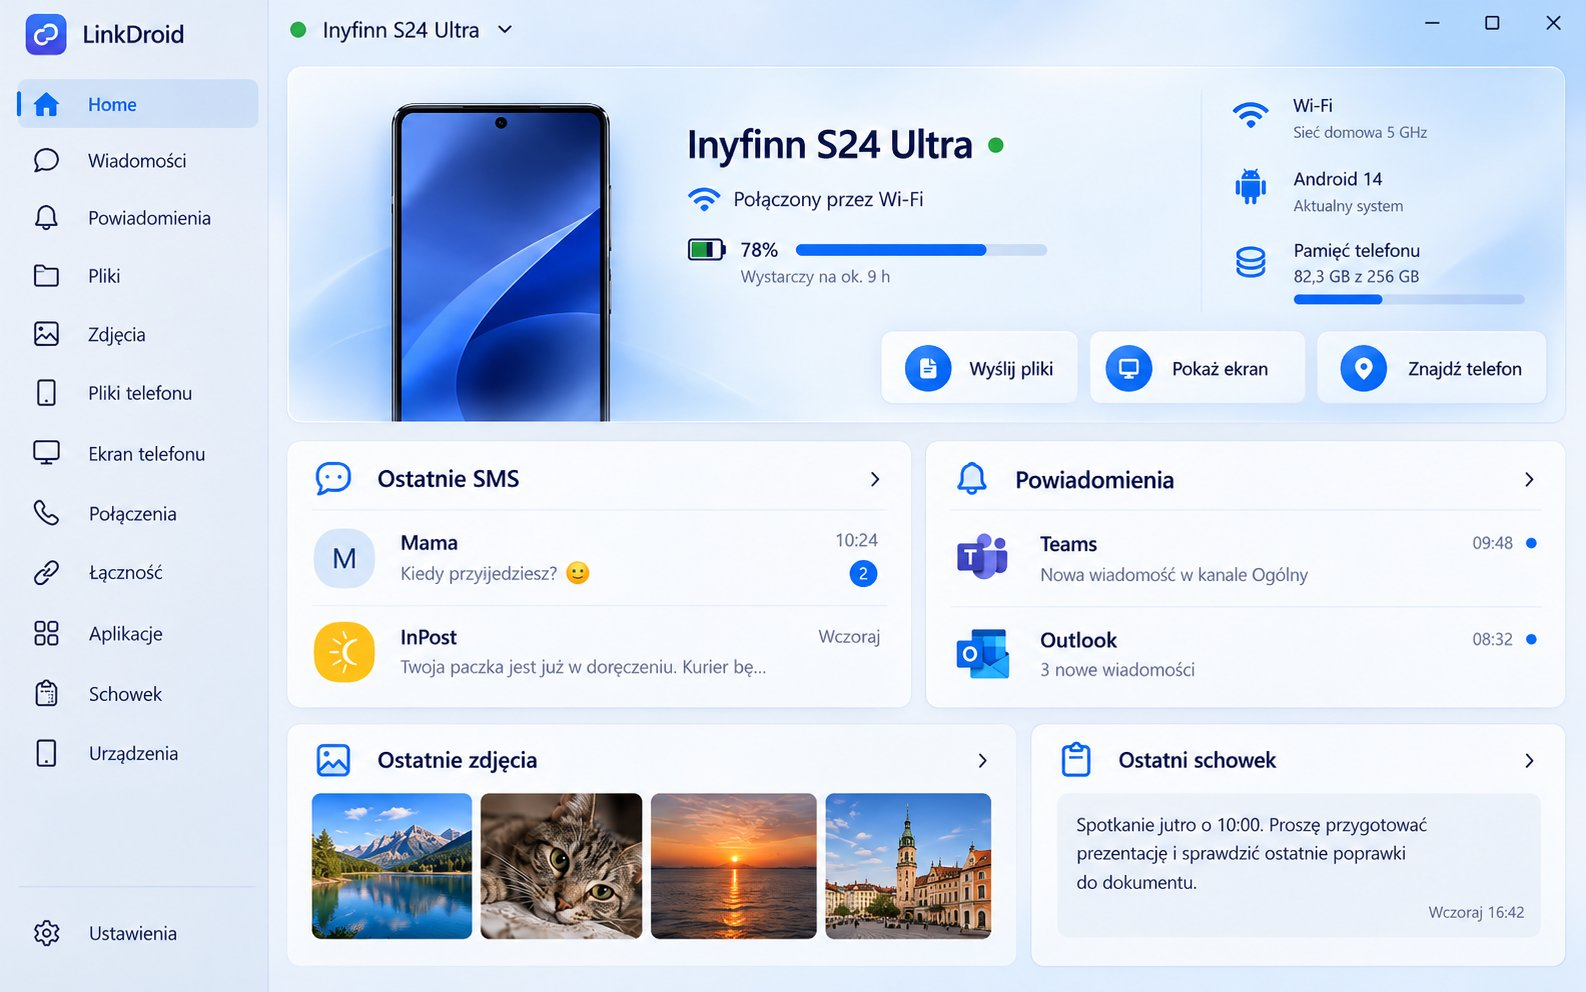
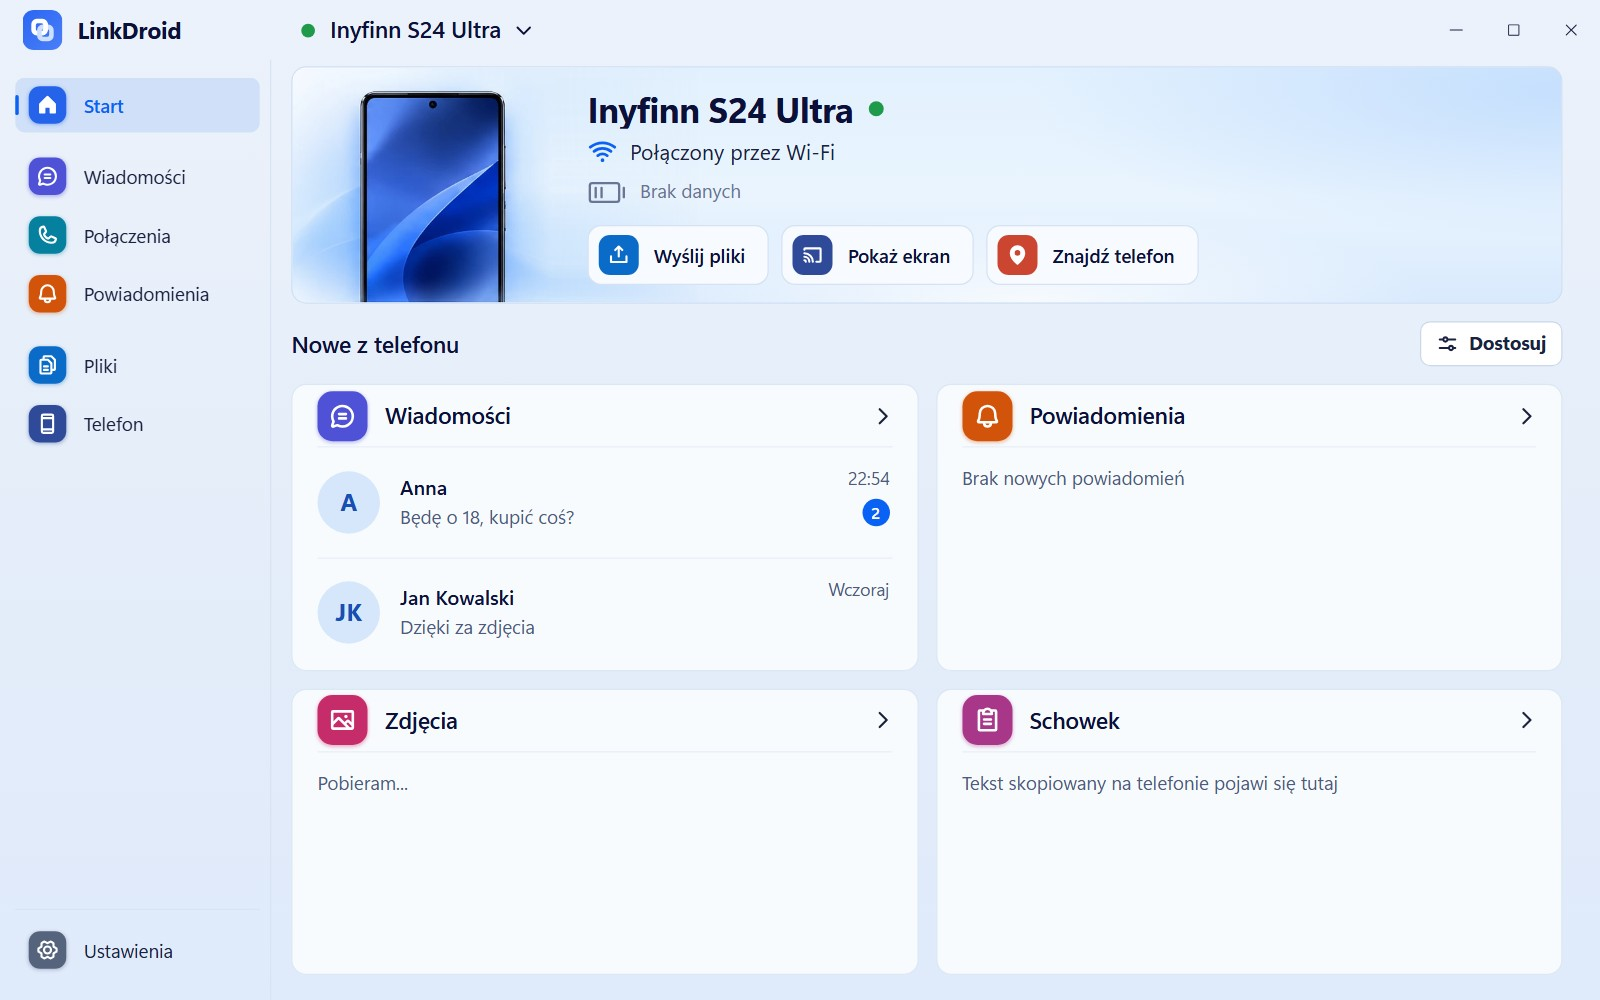
README: 1.0.23 (ostry ekran komputera po przybliżeniu, czystszy wygląd, Ustawienia jako lista kategorii, nowe zrzuty)

diff --git a/README.md b/README.md
@@ -44,7 +44,7 @@ Po instalacji komputer pokazuje kod QR, telefon go skanuje i gotowe. Obie aplika
 
 **Komputer na telefonie**
 - **Pliki komputera:** wszystkie dyski (C:, D: i inne), z pobieraniem i zapisem.
-- **Ekran komputera** na telefonie i proste sterowanie komputerem.
+- **Ekran komputera** na telefonie i proste sterowanie komputerem. Po przybliżeniu palcami obraz jest ostry: telefon mówi komputerowi, jaki wycinek ekranu widać, a komputer wysyła go w pełnej rozdzielczości (na monitorze 4K do 2x tak ostro jak na komputerze), zamiast powiększać zmniejszony obraz.
 - **Zdjęcia w telefonie:** podgląd w aplikacji z przewijaniem, ulubione, edycja, udostępnianie; siatka zmieniana dwoma palcami.
 - **Zgłoś problem:** formularz w Ustawieniach na komputerze i telefonie.
 - **Karta komputera na telefonie:** na ekranie Start przesuwasz z karty telefonu na kartę komputera: rodzaj komputera, zalogowany użytkownik, bateria i ładowanie, sieć, godzina na komputerze, a pod nią przyciski Zablokuj, Uśpij, Wyłącz ekran, Steruj, Wyślij pliki, Wyłącz komputer.
@@ -64,17 +64,14 @@ Po instalacji komputer pokazuje kod QR, telefon go skanuje i gotowe. Obie aplika
 - Mały program LinkDroid na stale włączonym urządzeniu w domu (np. Synology NAS w Dockerze) daje stały punkt połączenia i wybudza komputer, gdy jesteś poza domem. Paruje się przez komputer, bez skanowania kodów.
 
 **Wygląd po Twojemu**
-- Dwa układy ekranu głównego, motyw jasny i ciemny, cztery schematy kolorów.
+- **Czysty, spójny wygląd na komputerze i telefonie:** ekran Start z kartą telefonu i kafelkami „Nowe z telefonu”, pasek boczny z ikonami o równej wielkości, motyw jasny i ciemny, cztery schematy kolorów.
+- **Ustawienia jak na telefonie:** lista kategorii (Telefon i połączenie, Funkcje i dane, Aplikacja), każda z krótkim opisem. Wchodzisz w jedną i wracasz strzałką, bez przewijania długiej listy.
 - Na telefonie: motyw jasny lub ciemny jednym dotknięciem na górze ekranu Start, powiadomienia aktywne i historia przesuwane palcem.
 - Tryb „Dostosuj”: sam wybierasz kafelki (SMS, powiadomienia jednej aplikacji, zdjęcia, filmy, pliki, połączenia, schowek). Ekran wypełnia się treścią na każdym monitorze, od laptopa po 4K.
 
 <p align="center">
-  <img src="docs/img/uklad2-jasny.jpg" alt="LinkDroid, układ 2, motyw jasny" width="49%">
-  <img src="docs/img/uklad2-ciemny.jpg" alt="LinkDroid, układ 2, motyw ciemny" width="49%">
-</p>
-<p align="center">
-  <img src="docs/img/ustawienia-jasny.jpg" alt="LinkDroid, ustawienia z panelem telefonu, jasny" width="49%">
-  <img src="docs/img/ustawienia-ciemny.jpg" alt="LinkDroid, ustawienia z panelem telefonu, ciemny" width="49%">
+  <img src="docs/img/ustawienia-jasny.jpg" alt="LinkDroid, Ustawienia jako lista kategorii, motyw jasny" width="49%">
+  <img src="docs/img/ustawienia-ciemny.jpg" alt="LinkDroid, Ustawienia jako lista kategorii, motyw ciemny" width="49%">
 </p>
 
 ## Czym różni się od „Łącza z telefonem”
@@ -87,7 +84,7 @@ Po instalacji komputer pokazuje kod QR, telefon go skanuje i gotowe. Obie aplika
 | Pliki komputera na telefonie | Tak, wszystkie dyski, z zapisem | Nie |
 | Wybudzenie komputera z telefonu | Tak | Nie |
 | Telefon jako dysk w Eksploratorze | Tak, z literą dysku i miniaturami | Zależnie od wersji Windows |
-| Wygląd | Dwa układy, schematy, tryb Dostosuj | Stały |
+| Wygląd | Jasny i ciemny motyw, cztery schematy kolorów, Ustawienia jako czytelna lista kategorii | Stały |
 | Wybór, co widać na ekranie głównym | Tryb Dostosuj: kafelki SMS, powiadomienia jednej aplikacji, zdjęcia, filmy, pliki, połączenia, schowek | Stały układ |
 | Most w sieci domowej (np. NAS) | Tak: stały punkt połączenia i wybudzanie komputera spoza domu | Nie |
 | Stan komputera na telefonie (bateria, sieć, użytkownik) | Tak, karta Komputer na ekranie Start | Nie |
